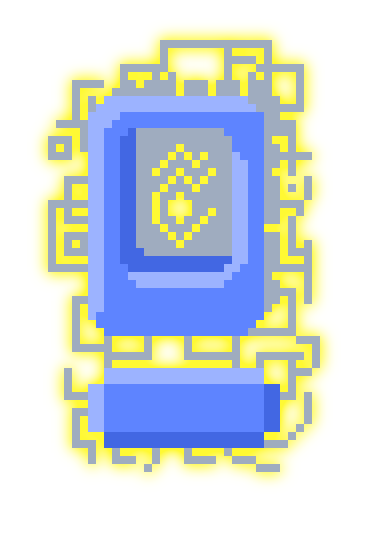
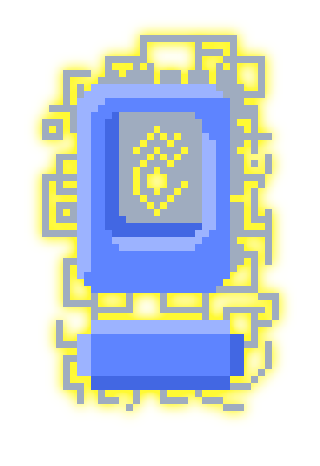
shop texture scaling, basic shop buying and item summoning

diff --git a/SaladimHelper/Entities/MaybeAShop/MaybeAShopUI.cs b/SaladimHelper/Entities/MaybeAShop/MaybeAShopUI.cs
@@ -1,11 +1,20 @@
-namespace Celeste.Mod.SaladimHelper.Entities;
+using FMOD;
+
+using Microsoft.Xna.Framework;
+
+using System;
+
+namespace Celeste.Mod.SaladimHelper.Entities;
 
 // 我知道这坨代码写的很烂但是你先别急整体都写完了再整理
 
 public class MaybeAShopUI : Entity
 {
-    public const float CenterOffsetX = 182f;
-    public const float CenterOffsetY = 190f;
+    public const float CenterOffsetInX = 160f / 320f;
+    public const float CenterOffsetInY = 166f / 466f;
+
+    public const float TextOffsetInX = 105f / 320f;
+    public const float TextOffsetInY = 353f / 466f;
     public readonly static Color BgColor = Calc.HexToColor("040345");
 
     private int lineMax;
@@ -17,7 +26,7 @@ public class MaybeAShopUI : Entity
     private Action<MaybeAShopUI, int> bought;
 
     private string[] texs;
-    private float[] costs;
+    private int[] costs;
 
     private MTexture t;
     private MTexture b;
@@ -26,8 +35,9 @@ public class MaybeAShopUI : Entity
     private Vector2 itemSize;
     private (int columns, int rows) itemRowColumn;
 
-    public MaybeAShopUI(Action<MaybeAShopUI, int> bought, Action<MaybeAShopUI> ended, string[] texs, float[] costs, int lineMax)
+    public MaybeAShopUI(Action<MaybeAShopUI, int> bought, Action<MaybeAShopUI> ended, string[] texs, int[] costs, int lineMax)
     {
+        //lineMax = 114514;
         this.ended = ended;
         // don't ask me why i am doing these
         this.ended += _ =>
@@ -78,10 +88,17 @@ public class MaybeAShopUI : Entity
                 bottomRightFramePos.X = framePos.X;
 
             // 物品贴图
-            var itemImg = new Image(GFX.Gui[texs[i]]);
-            itemImg.Position = framePos + new Vector2(CenterOffsetX, CenterOffsetY);
+            var texItem = GFX.Gui[texs[i]];
+            var itemImg = new Image(texItem);
+            itemImg.Position = framePos + new Vector2(CenterOffsetInX * frameImg.Width, CenterOffsetInY * frameImg.Height);
             itemImg.CenterOrigin();
             Add(itemImg);
+
+            //var coinTex = GFX.Gui["SaladimHelper/coin"];
+            //var coinImg = new Image(coinTex);
+            //coinImg.Position = framePos + new Vector2(CoinOffsetInX * frameImg.Width, CoinOffsetInY * frameImg.Height);
+            //coinImg.CenterOrigin();
+            //Add(coinImg);
 
             curColumn++;
             if (curColumn >= lineMax)
@@ -172,7 +189,8 @@ public class MaybeAShopUI : Entity
         else if (Input.MenuConfirm.Pressed)
         {
             Input.MenuConfirm.ConsumePress();
-            bought(this, selectedIndex);
+            if (TryBuy(selectedIndex))
+                bought(this, selectedIndex);
             ended(this);
             RemoveSelf();
         }
@@ -187,6 +205,17 @@ public class MaybeAShopUI : Entity
             ended(this);
             RemoveSelf();
         }
+    }
+
+    private bool TryBuy(int index)
+    {
+        var cost = costs[index];
+        if (ModuleSession.CollectedCoinsAmount >= cost)
+        {
+            ModuleSession.CollectedCoinsAmount -= cost;
+            return true;
+        }
+        return false;
     }
 
     public void UpdateSelection(int preIndex)
@@ -205,7 +234,28 @@ public class MaybeAShopUI : Entity
         float l = topLeft.X;
         float r = bottomRight.X;
         // 9 patching
-        // TODO
+        // TODO patching in Y direction
+        for (float x = l; x < r - itemSize.X; x += itemSize.X)
+        {
+            //Logger.Log(LogLevel.Info, ModuleName, $"x: {x}, y: {topLeft.Y}");
+            t.Draw(new(x, topLeft.Y));
+            b.Draw(new(x, bottomRight.Y - itemSize.Y));
+        }
+        t.Draw(new(r - itemSize.X, topLeft.Y));
+        b.Draw(new(r - itemSize.X, bottomRight.Y - itemSize.Y));
+
         base.Render();
+        for (int column = 0; column < itemRowColumn.columns; column++)
+            for (int row = 0; row < itemRowColumn.rows; row++)
+            {
+                int curIndex = column + row * lineMax;
+                if (itemsCount <= curIndex)
+                    goto @out;
+                var cardTopLeft = topLeft + new Vector2(column * itemSize.X, row * itemSize.Y);
+                var pos = cardTopLeft + new Vector2(TextOffsetInX * itemSize.X, TextOffsetInY * itemSize.Y);
+                ActiveFont.DrawOutline($"x{costs[curIndex]}", pos, new Vector2(0f, 0.5f), Vector2.One, Color.White, 1f, Color.Black);
+            }
+        @out:
+        return;
     }
 }

diff --git a/SaladimHelper/Entities/MaybeAShop/MaybeAShop.cs b/SaladimHelper/Entities/MaybeAShop/MaybeAShop.cs
@@ -6,7 +6,7 @@ namespace Celeste.Mod.SaladimHelper.Entities;
 public partial class MaybeAShop : Entity
 {
     public readonly EntityID ID;
-    private float[] costs;
+    private int[] costs;
     private Vector2[] nodes;
     private string[] itemTexs;
     private List<Entity>[] shopEntities;
@@ -25,7 +25,7 @@ public partial class MaybeAShop : Entity
 
     }
 
-    public MaybeAShop(Vector2 position, Vector2 size, EntityID id, int lineMax, string[] itemTexs, float[] costs, Vector2[] nodes)
+    public MaybeAShop(Vector2 position, Vector2 size, EntityID id, int lineMax, string[] itemTexs, int[] costs, Vector2[] nodes)
     {
         Position = position;
         shopEntities = new List<Entity>[nodes.Length];
@@ -68,11 +68,11 @@ public partial class MaybeAShop : Entity
         }
     }
 
-    public static float[] ParseSequence(string sequence, int expectedLength)
+    public static int[] ParseSequence(string sequence, int expectedLength)
     {
         try
         {
-            var result = sequence.Split(',').Select(float.Parse).ToArray();
+            var result = sequence.Split(',').Select(int.Parse).ToArray();
             if (result.Length != expectedLength)
                 throw new ArgumentException($"Expected {expectedLength} parts but got {result.Length}.");
             return result;
@@ -137,8 +137,14 @@ public partial class MaybeAShop : Entity
         void OnBought(MaybeAShopUI ui, int index)
         {
             ModuleSession.ShopBoughtItems.Add(index);
+            CoinDisplayer.Display(Scene, setAmountAgain: true);
             foreach (var item in shopEntities[index])
-                Scene.Add(item);
+            {
+                var from = Center;
+                var to = item.Center;
+                ShopBoughtLeader leader = new(from, to, item);
+                Scene.Add(leader);
+            }
         }
     }
 }

diff --git a/SaladimHelper/GlobalHooks.cs b/SaladimHelper/GlobalHooks.cs
@@ -1,6 +1,9 @@
 using System.Reflection;
+
 using Celeste.Mod.SaladimHelper.Entities;
+
 using Mono.Cecil.Cil;
+
 using MonoMod.RuntimeDetour;
 using MonoMod.Utils;
 
@@ -10,17 +13,14 @@ namespace Celeste.Mod.SaladimHelper;
 public static class GlobalHooks
 {
     public static bool FrostHelperLoaded;
+    public static bool DeathTrackerLoaded;
     public static ILHook FrostHelperDreamBlockHook = null;
 
     public static void Load()
     {
         On.Celeste.ParticleTypes.Load += OnLoadParticles;
 
-        EverestModuleMetadata frostHelper = new()
-        {
-            Name = "FrostHelper",
-            Version = new Version(1, 44, 0)
-        };
+        EverestModuleMetadata frostHelper = new() { Name = "FrostHelper", Version = new Version(1, 44, 0) };
         if (Everest.Loader.TryGetDependency(frostHelper, out var module))
         {
             Logger.Log(LogLevel.Info, ModuleName, "Found FrostHelper, hooking CustomDreamBlockV2.DreamDashUpdate...");
@@ -30,6 +30,10 @@ public static class GlobalHooks
             MethodInfo dreamDashUpdate = dreamBlockType.GetMethod("Player_DreamDashUpdate", BindingFlags.NonPublic | BindingFlags.Static);
             FrostHelperDreamBlockHook = new ILHook(dreamDashUpdate, OnFrostHelperDreamBlockHook);
         }
+
+        EverestModuleMetadata deathTracker = new() { Name = "DeathTracker", Version = new Version(1, 0, 0) };
+        if (Everest.Loader.DependencyLoaded(deathTracker))
+            DeathTrackerLoaded = true;
     }
 
     public static void OnFrostHelperDreamBlockHook(ILContext il)

diff --git a/SaladimHelper/Entities/MaybeAShop/CoinDisplayer.cs b/SaladimHelper/Entities/MaybeAShop/CoinDisplayer.cs
@@ -5,7 +5,7 @@ public class CoinDisplayer : TotalCustomDisplay
     public bool AlwaysDisplay;
 
     public CoinDisplayer(bool silence)
-        : base(MakeCoinCounter(silence), 202f)
+        : base(MakeCoinCounter(silence), GlobalHooks.DeathTrackerLoaded ? 277f : 202f)
     {
     }
 
@@ -18,10 +18,10 @@ public class CoinDisplayer : TotalCustomDisplay
     public override bool GetNeedLerpIn()
         => base.GetNeedLerpIn() || AlwaysDisplay;
 
-    public static CoinDisplayer Display(Scene scene, bool silence = false)
+    public static CoinDisplayer Display(Scene scene, bool silence = false, bool setAmountAgain = false)
     {
         var cur = ModuleSession.CurrentCoinDisplayer;
-        
+
         // 如果当前没有一个 coin displayer 才去new
         // 注意 new 完 Add Scene 后这一帧是没有这个实体的
         // 所以得同时检查是否 ToAdd 有这个实体
@@ -32,6 +32,8 @@ public class CoinDisplayer : TotalCustomDisplay
             ModuleSession.CurrentCoinDisplayer = cur;
             scene.Add(cur);
         }
+        if (setAmountAgain)
+            cur.counter.Amount = ModuleSession.CollectedCoinsAmount;
         return cur;
     }
 }

diff --git a/SaladimHelper/Entities/MaybeAShop/ShopBoughtLeader.cs b/SaladimHelper/Entities/MaybeAShop/ShopBoughtLeader.cs
@@ -1,0 +1,35 @@
+namespace Celeste.Mod.SaladimHelper.Entities;
+
+public class ShopBoughtLeader : Entity
+{
+    private Vector2 from;
+    private Vector2 to;
+    private float dir;
+    private float distance;
+
+    private Entity entityToAdd;
+
+    public ShopBoughtLeader(Vector2 from, Vector2 to, Entity entityToAdd)
+    {
+        (this.from, this.to) = (from, to);
+        this.entityToAdd = entityToAdd;
+        dir = (to - from).Angle();
+        distance = (to - from).Length();
+
+        Tween tween = Tween.Create(Tween.TweenMode.Oneshot, Ease.SineOut, distance / 120f);
+        tween.OnUpdate = t =>
+        {
+            Position = Vector2.Lerp(this.from, this.to, t.Eased);
+            SceneAs<Level>().ParticlesFG.Emit(Player.P_SummitLandA, Position, dir);
+        };
+        tween.OnComplete = _ =>
+        {
+            Scene.Add(entityToAdd);
+            for (int i = 0; i < 20; i++)
+                SceneAs<Level>().ParticlesFG.Emit(Player.P_SummitLandB, Position);
+            RemoveSelf();
+        };
+        Add(tween);
+        tween.Start();
+    }
+}

diff --git a/SaladimHelper/SaladimHelperSession.cs b/SaladimHelper/SaladimHelperSession.cs
@@ -9,7 +9,7 @@ public class SaladimHelperSession : EverestModuleSession
     public HashSet<EntityID> CollectedCoins = new();
     public HashSet<int> ShopBoughtItems = new();
 
-    [YamlIgnore] public int CollectedCoinsAmount => CollectedCoins.Count;
+    [YamlIgnore] public int CollectedCoinsAmount = 114514;
 
     public Vector2? MomentumRefillSpeedKept = null;
 

diff --git a/SaladimHelper/Entities/MaybeAShop/CollectableCoin.cs b/SaladimHelper/Entities/MaybeAShop/CollectableCoin.cs
@@ -65,6 +65,7 @@ public class CollectableCoin : Entity
         var session = SceneAs<Level>().Session;
         var entityId = new EntityID(session.Level, id);
         ModuleSession.CollectedCoins.Add(entityId);
+        ModuleSession.CollectedCoinsAmount++;
         session.DoNotLoad.Add(entityId);
 
         PlayAnim();
